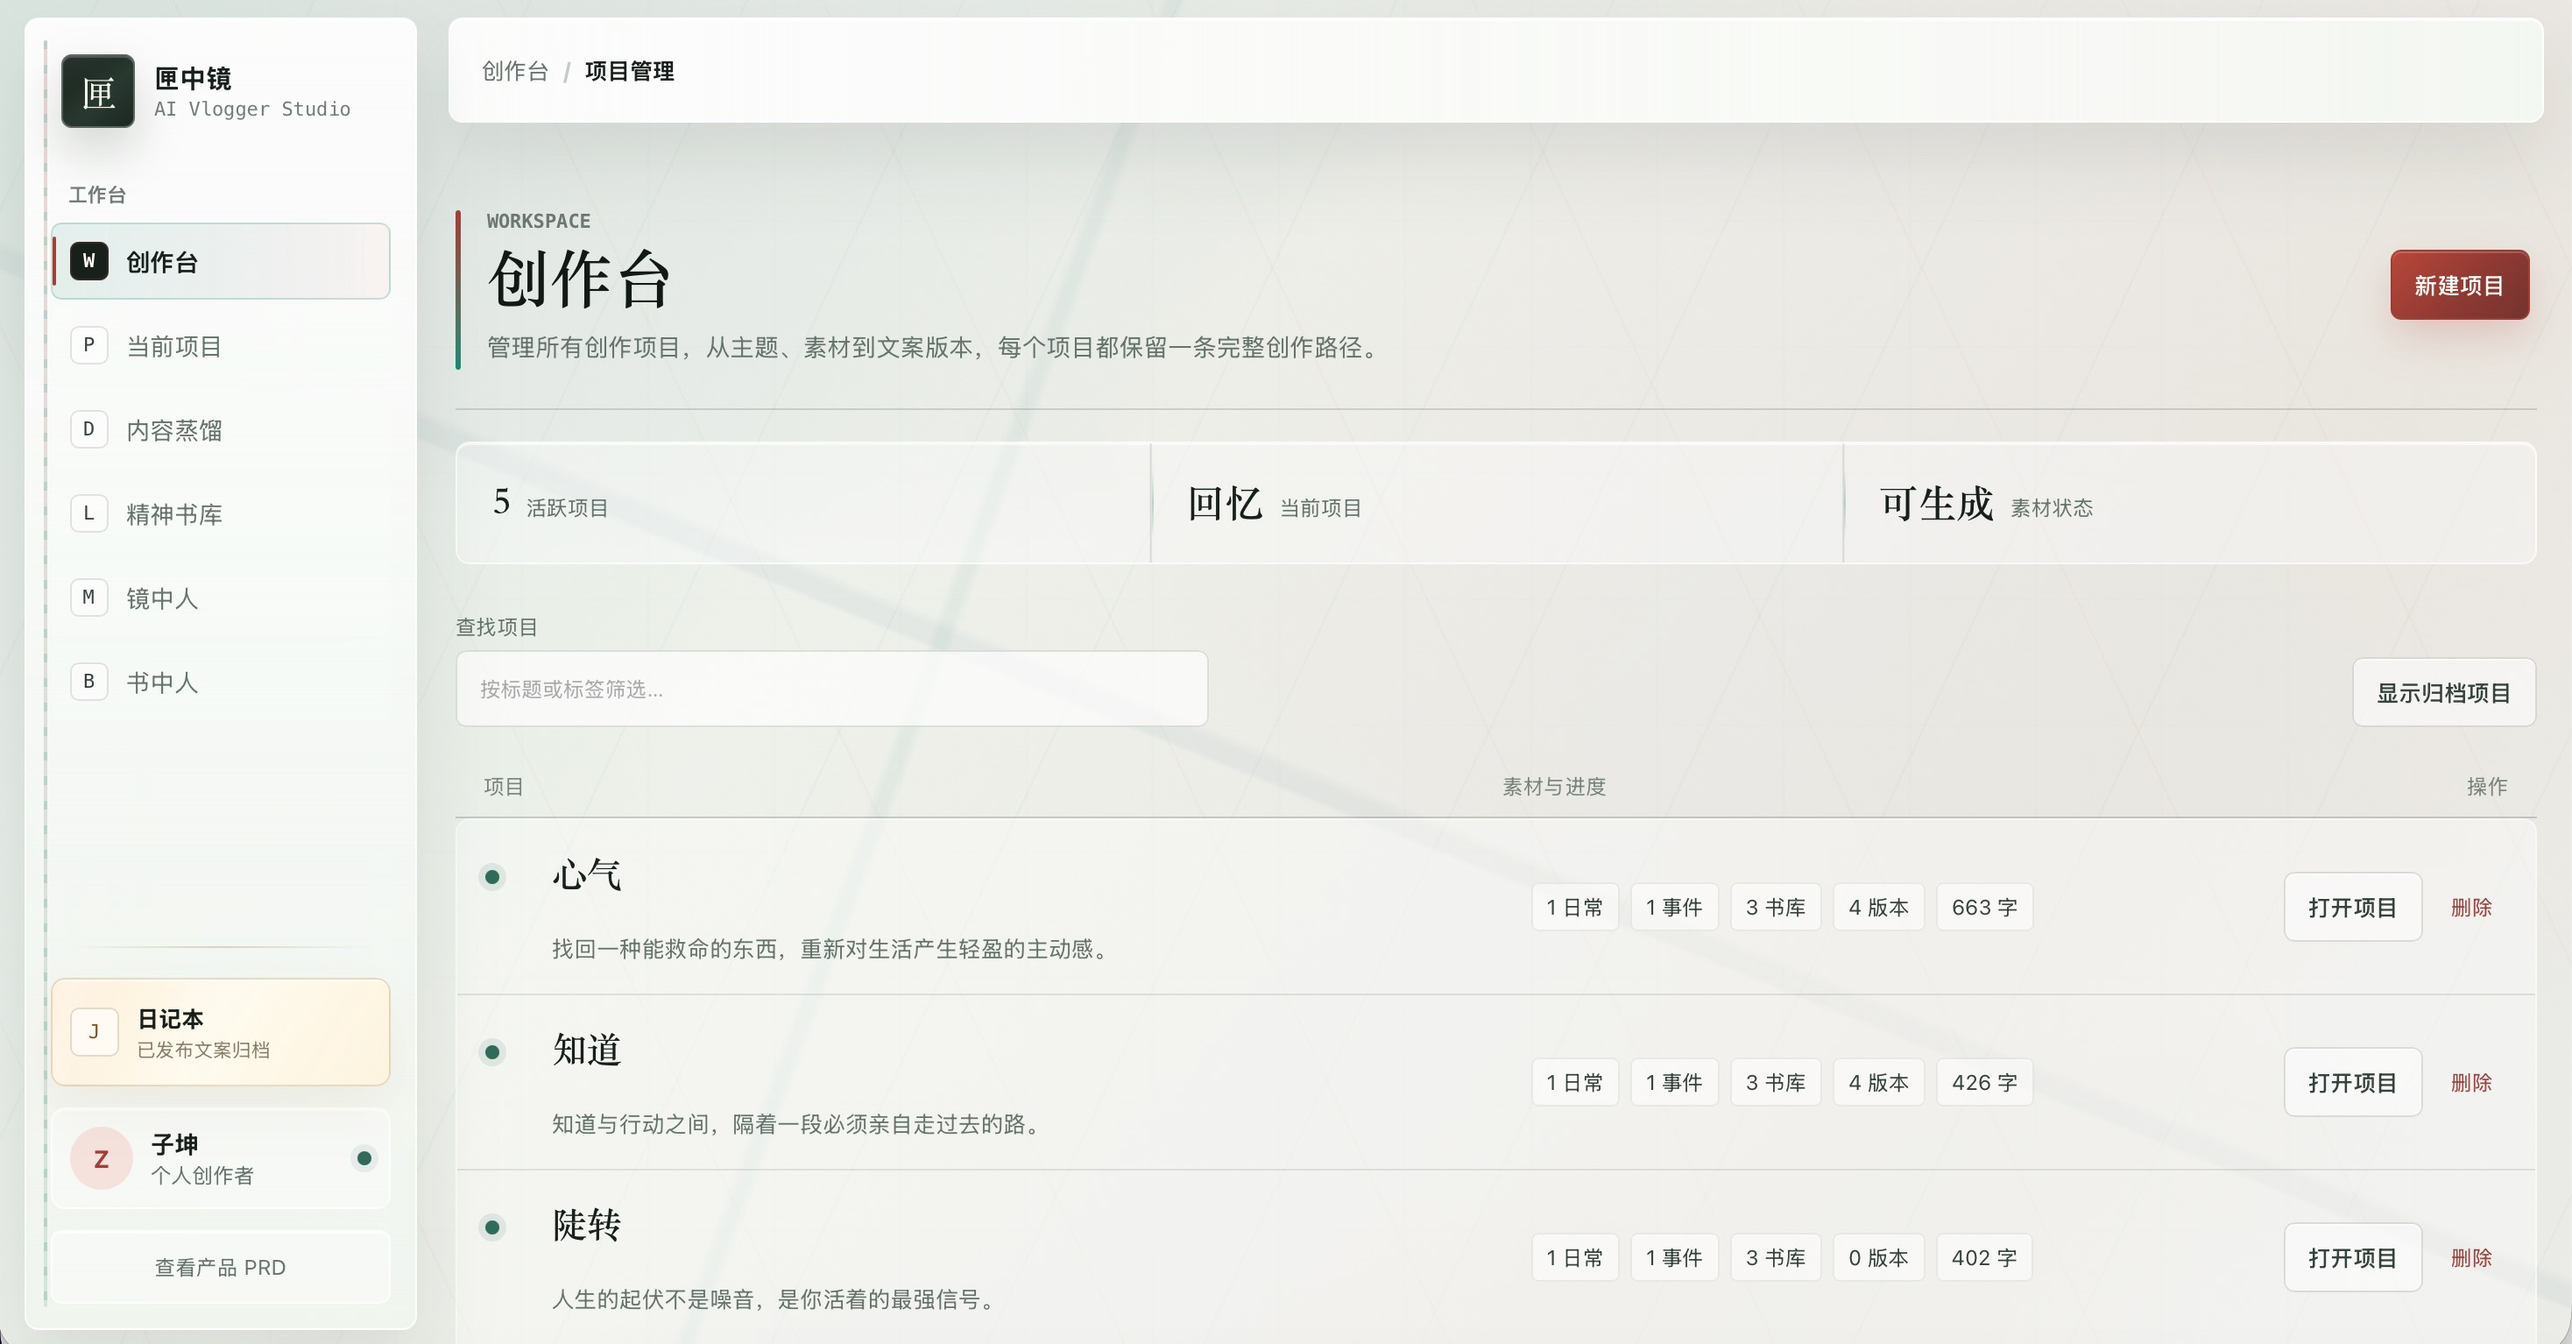
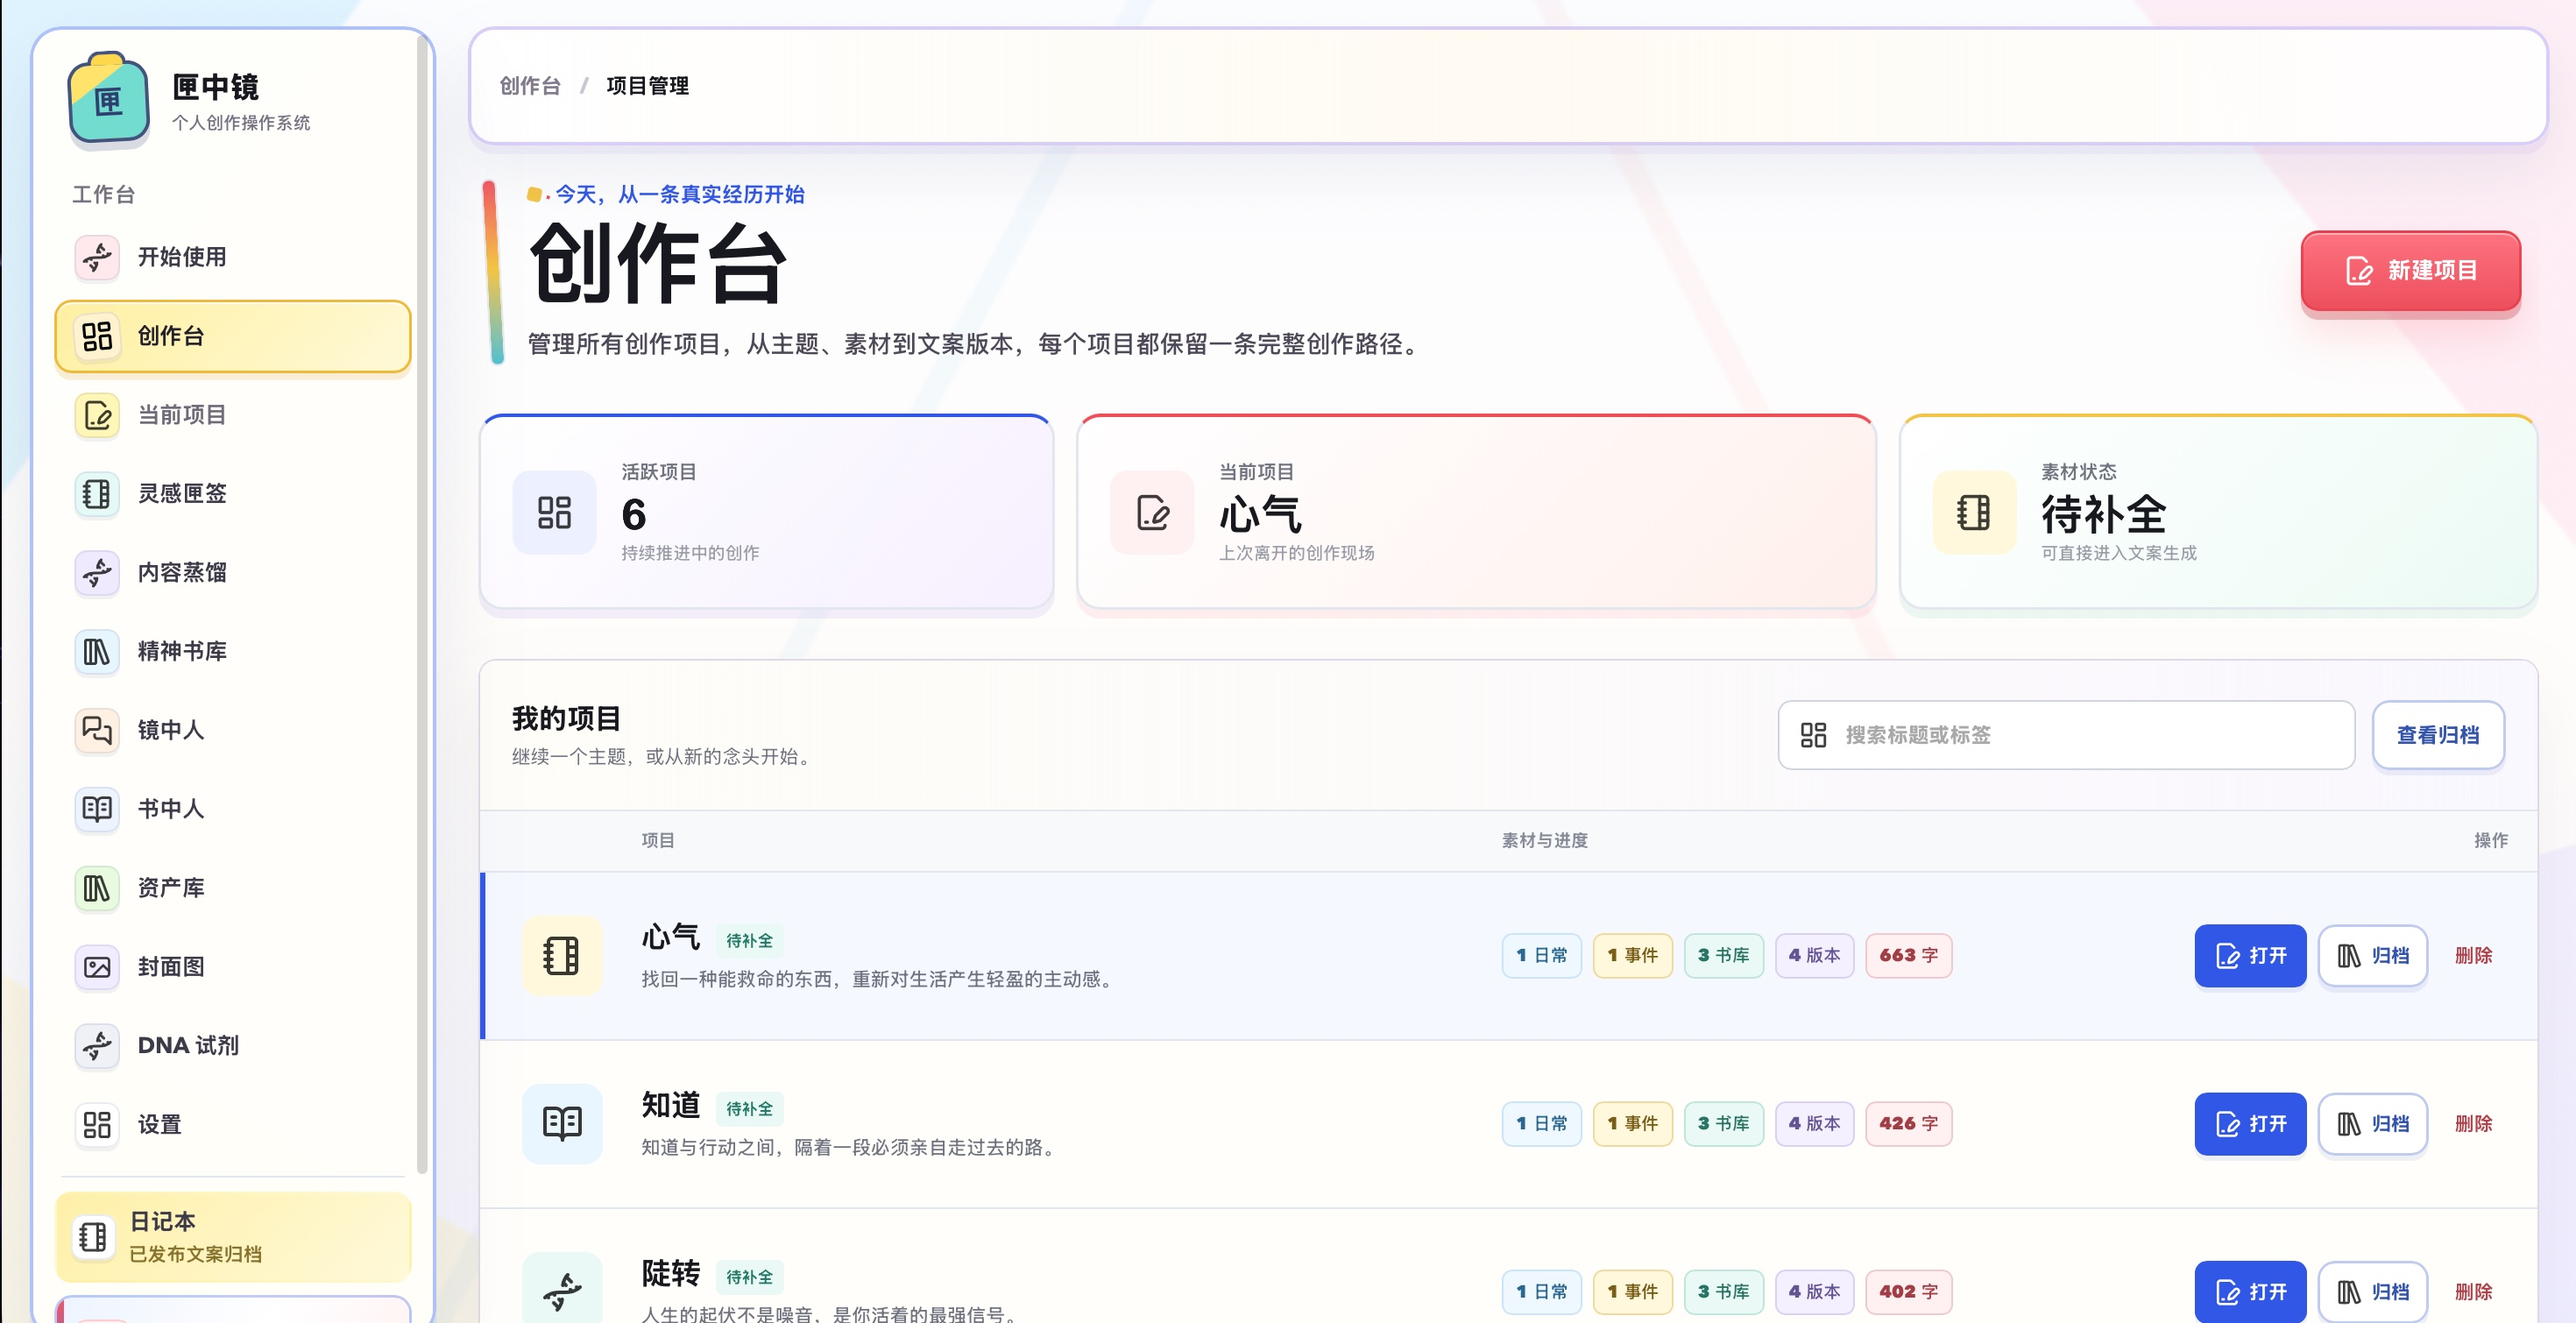
feat: update AI coding portfolio projects

diff --git a/index.html b/index.html
@@ -3,6 +3,7 @@
 <head>
 <meta charset="UTF-8">
 <meta name="viewport" content="width=device-width, initial-scale=1.0">
+<title>闫子奇｜AI 产品与跨界创作作品集</title>
 <meta name="description" content="闫子奇（Yan子坤）的个人网站：AI 产品、内容创作、AIGC 实验与科研实践。">
 <meta name="theme-color" content="#08080c">
 <meta property="og:title" content="闫子奇 | 不务正业的工科生">
@@ -555,7 +556,7 @@ nav .nav-links a:hover, nav .nav-links a.active { color: var(--text); background
 .coding-card-body { padding: 24px; height: 100%; display: flex; flex-direction: column; }
 .coding-card-body .cc-icon { font-size: 1.8rem; margin-bottom: 14px; display: block; }
 .coding-card-body h4 { font-size: 1rem; font-weight: 600; margin-bottom: 8px; }
-.coding-card-body p { font-size: 0.82rem; color: var(--text2); line-height: 1.6; }
+.coding-card-body p { font-size: 0.82rem; color: var(--text2); line-height: 1.7; text-wrap: pretty; }
 .coding-card-body .cc-tags { display: flex; gap: 6px; margin-top: 14px; flex-wrap: wrap; }
 .coding-card-body .cc-tag {
   padding: 3px 10px; border-radius: 4px; font-size: 0.68rem;
@@ -563,13 +564,52 @@ nav .nav-links a:hover, nav .nav-links a.active { color: var(--text); background
   border: 1px solid rgba(212,165,116,0.2); font-weight: 450;
 }
 .coding-card-body .cc-thumb {
-  width: 100%; height: auto; border-radius: 6px; margin-bottom: 16px;
+  width: 100%; height: auto; border-radius: 8px;
   display: block; object-fit: cover;
 }
-.cc-btn-row { display: flex; gap: 10px; flex-wrap: wrap; }
+.coding-project-list { display: grid; grid-template-columns: 1fr; gap: 20px; }
+.coding-card-landscape {
+  display: grid;
+  grid-template-columns: minmax(0, 0.95fr) minmax(0, 1.05fr);
+  gap: clamp(24px, 4vw, 52px);
+  align-items: center;
+  padding: clamp(24px, 4vw, 40px);
+}
+.coding-card-landscape:nth-child(3) {
+  background:
+    radial-gradient(circle at 18% 24%, rgba(201,169,98,0.1), transparent 36%),
+    rgba(18,17,22,0.86);
+}
+.coding-card-landscape .cc-media { min-width: 0; }
+.coding-card-landscape .cc-screen-pair {
+  display: grid; grid-template-columns: repeat(2, minmax(0, 1fr)); gap: 12px;
+  align-items: end;
+}
+.coding-card-landscape .cc-screen {
+  width: 100%; height: auto; max-height: 500px; aspect-ratio: 1206 / 2420;
+  display: block; object-fit: contain; object-position: center bottom;
+  border-radius: 12px;
+  border: 1px solid rgba(212,165,116,0.16);
+  box-shadow: 0 18px 45px rgba(5,4,7,0.38);
+}
+.coding-card-landscape .cc-content {
+  min-width: 0; align-self: stretch;
+  display: flex; flex-direction: column; justify-content: center;
+}
+.coding-card-landscape .cc-kicker {
+  display: block; margin-bottom: 8px;
+  color: var(--accent2); font: 600 0.68rem/1.4 'Space Grotesk', sans-serif;
+  letter-spacing: 0.12em; text-transform: uppercase;
+}
+.coding-card-landscape h4 { font-size: clamp(1.25rem, 2.6vw, 1.75rem); }
+.coding-card-landscape p { font-size: 0.88rem; line-height: 1.85; }
+.cc-btn-row {
+  display: flex; align-items: center; gap: 10px; flex-wrap: wrap;
+  margin-top: auto; padding-top: 16px;
+}
 .coding-card-body .cc-btn {
   display: inline-flex; align-items: center; gap: 6px;
-  margin-top: 16px; padding: 8px 18px; border-radius: 6px;
+  padding: 8px 18px; border-radius: 6px;
   background: var(--accent); color: #08080c;
   text-decoration: none; font-size: 0.8rem; font-weight: 500;
   transition: all 0.3s ease;
@@ -577,6 +617,14 @@ nav .nav-links a:hover, nav .nav-links a.active { color: var(--text); background
 }
 .coding-card-body .cc-btn:hover {
   background: #c9a962; transform: translateY(-1px);
+}
+.coding-card-body .cc-btn:active { transform: translateY(1px) scale(0.98); }
+.coding-card-body .cc-btn.secondary {
+  color: var(--accent); background: transparent;
+  border: 1px solid rgba(212,165,116,0.35);
+}
+.coding-card-body .cc-btn.secondary:hover {
+  color: #08080c; background: var(--accent); border-color: var(--accent);
 }
 
 
@@ -616,6 +664,7 @@ footer .footer-links a:hover { color: var(--accent); }
   .metric-rail, .experience-grid, .skill-groups { grid-template-columns: repeat(2, 1fr); }
   .practice-grid { grid-template-columns: 1fr; }
   .grid-2col { grid-template-columns: 1fr; }
+  .coding-card-landscape { grid-template-columns: minmax(0, 0.85fr) minmax(0, 1.15fr); }
 }
 @media (max-width: 768px) {
   nav { padding: 0 20px; }
@@ -640,6 +689,9 @@ footer .footer-links a:hover { color: var(--accent); }
   .practice-card { min-height: 240px; padding: 22px; }
   .practice-result { position: static; display: block; margin-top: 18px; }
   .sub-section-title { align-items: flex-start; }
+  .coding-card-landscape { grid-template-columns: 1fr; gap: 24px; }
+  .coding-card-landscape .cc-screen-pair { gap: 8px; }
+  .coding-card-landscape .cc-screen { max-height: none; border-radius: 8px; }
 }
 @media (prefers-reduced-motion: reduce) {
   html { scroll-behavior: auto; }
@@ -827,33 +879,63 @@ footer .footer-links a:hover { color: var(--accent); }
       <span>AI Coding 项目</span>
       <span class="accent-line"></span>
     </div>
-    <div class="grid-auto section-gap-sm reveal">
-      <div class="card coding-card-body">
-        <img src="prompt-master.jpg?v=20260806" alt="提示词大师产品截图" class="cc-thumb" width="800" height="500" loading="lazy" decoding="async">
-<h4>提示词大师 <span style="font-weight:400;font-size:0.75rem;color:var(--accent2)">（已上线，同时已开源轻量化 Skill）</span></h4>
-        <p>面向 AIGC 视频创作者「写词混乱、需求丢失、成片不稳定」的真实痛点，设计「提示词大师」提示词生成系统，搭建「导演规划-RAG 案例检索-文稿生成-10 维质量审核-文稿重写」多 Agent 工作流，完成从需求分析、方案设计、PRD 写作、Vibe Coding 到上线跟进与数据复盘的完整闭环；积累 100+ 条影视级视频提示词 RAG 库沉淀，推动 20 组对照测试，抽卡次数由 3.5 次降至 1.5 次，生产效率提升 133.33%。</p>
-        <div class="cc-tags">
-          <span class="cc-tag">多 Agent 工作流</span>
-          <span class="cc-tag">RAG 案例库 100+</span>
-          <span class="cc-tag">10 维审片</span>
-          <span class="cc-tag">效率提升 133%</span>
+    <div class="coding-project-list section-gap-sm reveal">
+      <article class="card coding-card-body coding-card-landscape">
+        <div class="cc-media">
+          <img src="prompt-master.jpg?v=20260806" alt="提示词大师产品截图" class="cc-thumb" width="2886" height="1532" loading="lazy" decoding="async">
         </div>
-        <div class="cc-btn-row">
-          <a href="https://promptmaster.novastarbox.com/login?returnTo=%2Fapp" class="cc-btn" target="_blank" rel="noopener">访问提示词大师 ↗</a>
-          <a href="https://github.com/McAuliffe-yzk/cinematic-prompt-master-skill" class="cc-btn" target="_blank" rel="noopener">GitHub · 开源 Skill ↗</a>
+        <div class="cc-content">
+          <span class="cc-kicker">AIGC Video · Agent Workflow</span>
+          <h4>提示词大师 <span style="font-weight:400;font-size:0.75rem;color:var(--accent2)">（已上线，同时已开源轻量化 Skill）</span></h4>
+          <p>面向 AIGC 视频创作者「写词混乱、需求丢失、成片不稳定」的真实痛点，设计「提示词大师」提示词生成系统，搭建「导演规划-RAG 案例检索-文稿生成-10 维质量审核-文稿重写」多 Agent 工作流，完成从需求分析、方案设计、PRD 写作、Vibe Coding 到上线跟进与数据复盘的完整闭环；积累 100+ 条影视级视频提示词 RAG 库沉淀，推动 20 组对照测试，抽卡次数由 3.5 次降至 1.5 次，生产效率提升 133.33%。</p>
+          <div class="cc-tags">
+            <span class="cc-tag">多 Agent 工作流</span>
+            <span class="cc-tag">RAG 案例库 100+</span>
+            <span class="cc-tag">10 维审片</span>
+            <span class="cc-tag">效率提升 133%</span>
+          </div>
+          <div class="cc-btn-row">
+            <a href="https://promptmaster.novastarbox.com/login?returnTo=%2Fapp" class="cc-btn" target="_blank" rel="noopener">访问提示词大师 ↗</a>
+            <a href="https://github.com/McAuliffe-yzk/cinematic-prompt-master-skill" class="cc-btn secondary" target="_blank" rel="noopener">GitHub · 开源 Skill ↗</a>
+          </div>
         </div>
-      </div>
-      <div class="card coding-card-body">
-        <img src="xiangzhongjing.jpg?v=20260806" alt="匣中镜 AI Vlogger Studio 截图" class="cc-thumb" width="800" height="500" loading="lazy" decoding="async">
-        <h4>匣中镜 AI Vlogger Studio</h4>
-        <p>从自媒体创作者「文案产出慢、AI 写作不像自己、灵感与项目管理分散」的痛点入手，基于 Codex 设计和落地「项目管理→素材录入→AI 生成→在线编辑→版本保存→风格持续优化」产品。初稿产出时间从平均 2-3 小时压缩至 20 分钟，内容流量稳定性达 78.24%，服务 7 位博主创作。</p>
-        <div class="cc-tags">
-          <span class="cc-tag">写作 Skill</span>
-          <span class="cc-tag">产出提速 6-9x</span>
-          <span class="cc-tag">流量稳定性 78%</span>
-          <span class="cc-tag">服务 7 位博主</span>
+      </article>
+      <article class="card coding-card-body coding-card-landscape">
+        <div class="cc-media">
+          <img src="xiangzhongjing.jpg?v=20260815" alt="匣中镜 AI Vlogger Studio 创作台项目管理界面" class="cc-thumb" width="2940" height="1510" loading="lazy" decoding="async">
         </div>
-      </div>
+        <div class="cc-content">
+          <span class="cc-kicker">Personal Agent · Creator Workflow</span>
+          <h4>匣中镜 AI Vlogger Studio</h4>
+          <p>「匣中镜」是一款面向个人创作者的本地优先 Personal Agent。它以大模型与结构化 Skill 为核心，将历史文稿蒸馏为可审核、可迭代的「个人创作 DNA」，再结合真实素材、叙事编排与精神书库原文，打通从选题与素材整理，到风格化文案生成、金句植入与发布沉淀的创作闭环。「镜中人」支持用户与被蒸馏的自己对话；「书中人」则基于个人书库，提供有出处、可核验的角色化交流。初稿产出时间由平均 2–3 小时缩短至 20 分钟，内容流量稳定性达 78.24%，已服务 7 位博主创作。</p>
+          <div class="cc-tags">
+            <span class="cc-tag">本地优先 Agent</span>
+            <span class="cc-tag">个人创作 DNA</span>
+            <span class="cc-tag">镜中人 · 书中人</span>
+            <span class="cc-tag">初稿 20 分钟</span>
+          </div>
+          <div class="cc-btn-row">
+            <a href="https://github.com/McAuliffe-yzk/Xiazhongjing" class="cc-btn secondary" target="_blank" rel="noopener">GitHub · 查看项目 ↗</a>
+          </div>
+        </div>
+      </article>
+      <article class="card coding-card-body coding-card-landscape">
+        <div class="cc-media cc-screen-pair" aria-label="修行录产品实机界面">
+          <img src="xiuxinglu-paths.jpg?v=20260910" alt="修行录的修炼路径与个人成长界面" class="cc-screen" width="1206" height="2420" loading="lazy" decoding="async">
+          <img src="xiuxinglu-practice.jpg?v=20260910" alt="修行录的日常功课与修行记录界面" class="cc-screen" width="1206" height="2374" loading="lazy" decoding="async">
+        </div>
+        <div class="cc-content">
+          <span class="cc-kicker">Personal Growth · AI Coding</span>
+          <h4>修行录</h4>
+          <p>《修行录》是一款以国风修行体系为核心的个人成长与自律应用。用户可在书生、剑修、武夫三条修炼路径中择道，通过计时完成读书、主修课题、运动与散步等日常功课，并借助洞察记录、养魂打卡、竹简待办和修行记录持续积累修为。产品将修为、境界晋升、道誓、身份名片与多路同修机制融为一体，把抽象的长期坚持转化为清晰、可视、可追踪的成长反馈。</p>
+          <div class="cc-tags">
+            <span class="cc-tag">三条修炼路径</span>
+            <span class="cc-tag">计时功课</span>
+            <span class="cc-tag">境界晋升</span>
+            <span class="cc-tag">多路同修</span>
+          </div>
+        </div>
+      </article>
     </div>
 
     <div class="sub-section-title reveal">
@@ -1121,7 +1203,7 @@ footer .footer-links a:hover { color: var(--accent); }
     <a href="https://v.douyin.com/PHjxAmv0urs/" target="_blank" rel="noopener">抖音 @Yan子坤</a>
   </div>
   <p>© 2026 闫子奇 · 不务正业的工科生 · 跨界创作者</p>
-  <p style="font-size:0.7rem;color:var(--text3);margin-top:4px;">最后更新：2026.08.06</p>
+  <p style="font-size:0.7rem;color:var(--text3);margin-top:4px;">最后更新：2026.09.10</p>
 </footer>
 
 <script>
